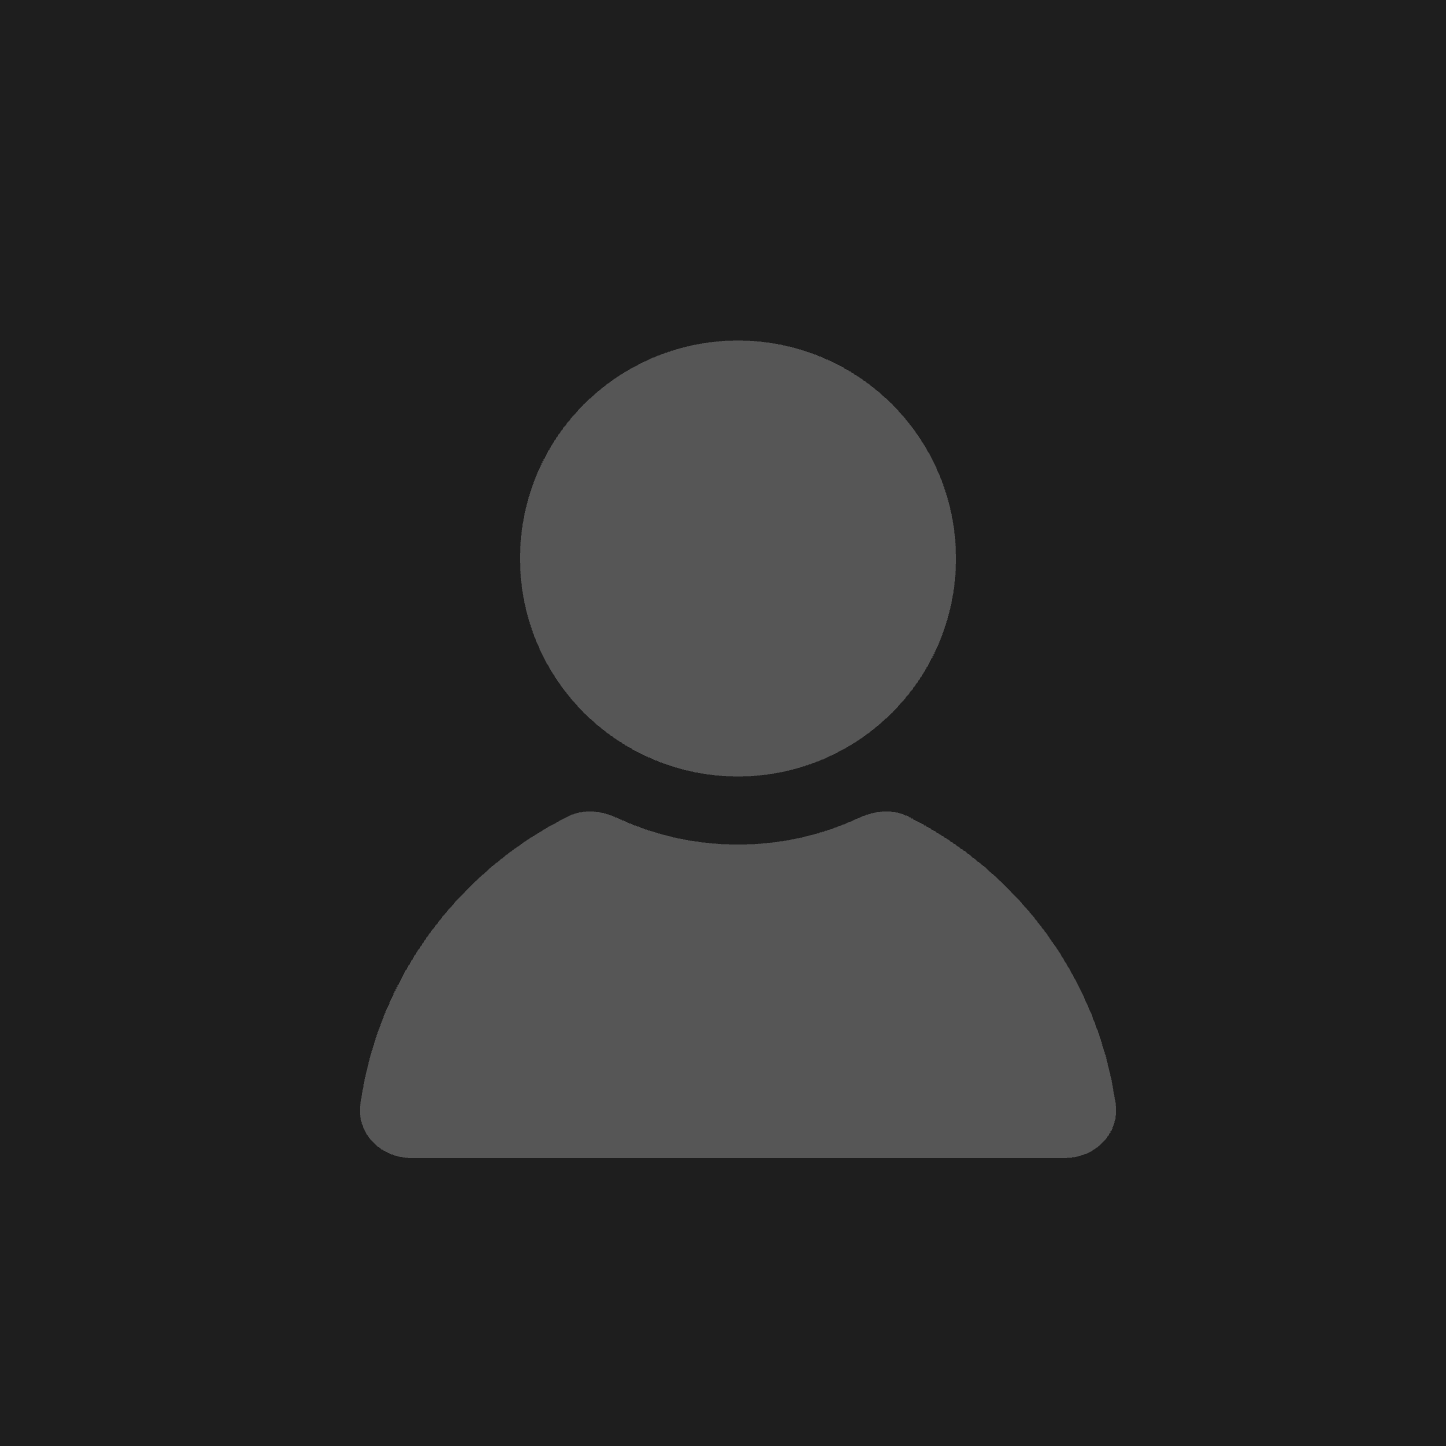
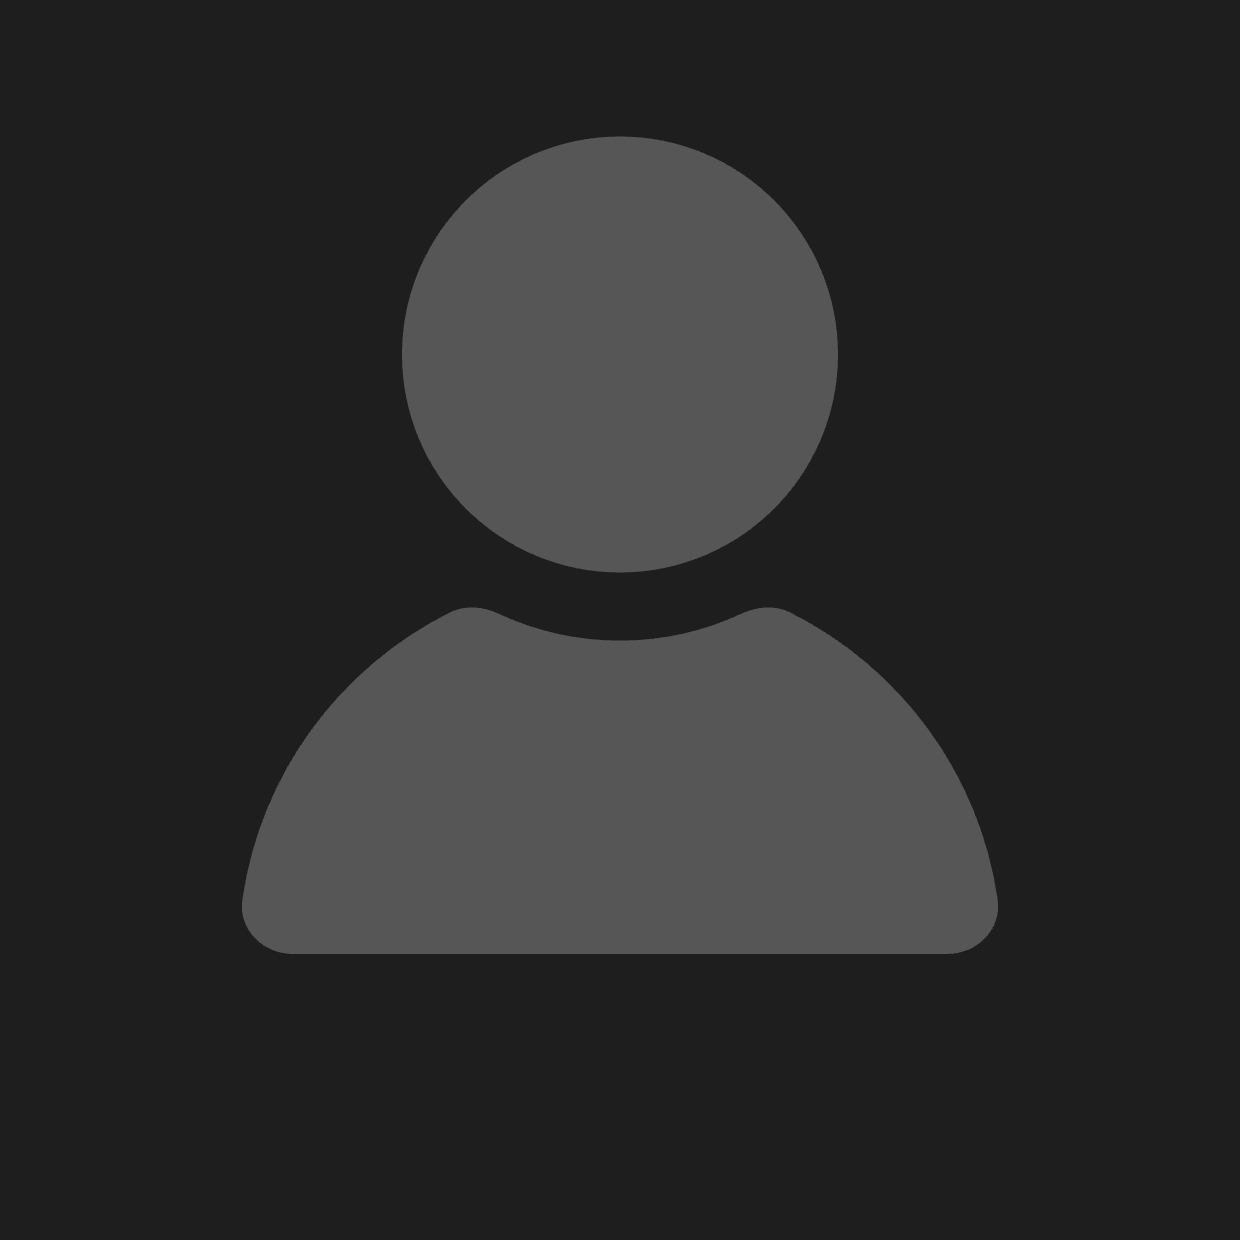
Improved placeholder image, mic sync on preexisting tracks is now robust

Changed region(s): [[0.1839, 0.0919, 0.8274, 0.8274]]

diff --git a/Samples~/Meet/Assets/Runtime/MeetManager.cs b/Samples~/Meet/Assets/Runtime/MeetManager.cs
@@ -580,6 +580,32 @@ public class MeetManager : MonoBehaviour
         if (tile.Label != null) tile.Label.text = identity;
         tile.SetPlaceholder(_placeholderTexture);
         _participantTiles[identity] = tile;
+
+        SyncMicState(identity);
+    }
+
+    private void SyncMicState(string identity)
+    {
+        if (!_participantTiles.TryGetValue(identity, out var tile)) return;
+        if (_room == null) return;
+
+        Participant participant = null;
+        if (_room.LocalParticipant != null && _room.LocalParticipant.Identity == identity)
+            participant = _room.LocalParticipant;
+        else if (_room.RemoteParticipants.TryGetValue(identity, out var rp))
+            participant = rp;
+        if (participant == null) return;
+
+        bool muted = true;
+        foreach (var pub in participant.Tracks.Values)
+        {
+            if (pub.Kind == TrackKind.KindAudio && pub.Source == TrackSource.SourceMicrophone)
+            {
+                muted = pub.Muted;
+                break;
+            }
+        }
+        tile.SetMicMuted(muted);
     }
 
     private void DestroyParticipantTile(string identity)